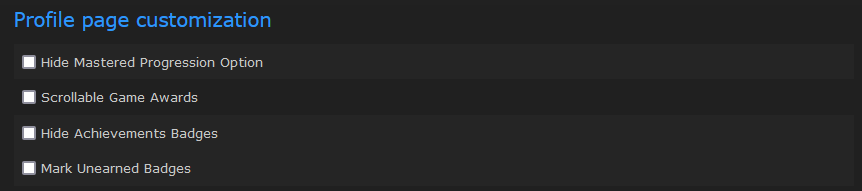
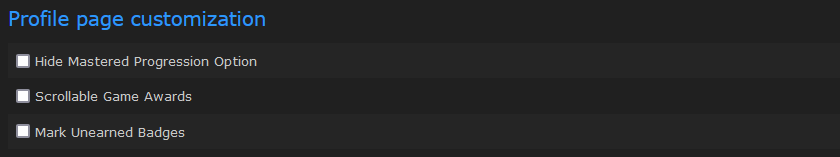
RA_CustomizeProfile: drop the HideAchievementsBadges feature

diff --git a/RA_CustomizeProfile.user.js b/RA_CustomizeProfile.user.js
@@ -1,7 +1,7 @@
 // ==UserScript==
 // @name         RA_CustomizeProfile
 // @namespace    RA
-// @version      1.1
+// @version      1.2
 // @description  Provides a set of options to customize the profile pages
 // @author       Mindhral
 // @homepage     https://github.com/Mindhral/RA_userscripts
@@ -55,10 +55,6 @@ const settingsHtml = `<div class="component">
     <tr><th colspan="2"><label><input id="scrollAwardsActive" type="checkbox"> Scrollable Game Awards</label></th></tr>
     <tr><td>Minimum number of games for showing the scroll bar</td><td><input id="scrollAwardsMinGames" type="number" style="width: 7em;"></td></tr>
     <tr><td>Maximum height of the section with the scroll bar</td><td><input id="scrollAwardsMaxHeight" type="number" min="10" style="width: 7em;"><span title="em: font-size of the element" style="cursor: help;"> em</span></td></tr>
-    <tr><th colspan="2"><label><input id="hideAchBadgesActive" type="checkbox"> Hide Achievements Badges</label></th></tr>
-    <tr><td>Maximum number of badges before hiding any</td><td><input id="hideAchBadgesMaxBadges" type="number" min="0" style="width: 7em;"></td></tr>
-    <tr><td>Number of badges always displayed</td><td><input id="hideAchBadgesShownBadges" type="number" min="30" style="width: 7em;"></td></tr>
-    <tr><td>Number of badges in the transparency gradient</td><td><input id="hideAchBadgesOpacityGradient" type="number" min="0" max="45" style="width: 7em;"></td></tr>
   </tbody></table>
   <table class="table-highlight"><tbody>
     <tr><th colspan="2"><label><input id="markUnearnedActive" type="checkbox"> Mark Unearned Badges</label></th></tr>
@@ -322,97 +318,8 @@ const ScrollAwards = (() => {
     return { profilePage, settingsPage };
 })();
 
-const HideAchievementsBadges = (() => {
-    const DefaultSettings = {
-        active: false,
-        maxBadgesCount: 45,
-        showBadgesCount: 30,
-        opacityGradientCount: 15
-    };
-
-    const Settings = loadSettings('hideAchievementsBadges', DefaultSettings);
-
-    function saveSettings() {
-        GM_setValue('hideAchievementsBadges', Settings);
-    }
-
-    function settingsPage() {
-        const activeCheckbox = document.getElementById('hideAchBadgesActive');
-        activeCheckbox.checked = Settings.active;
-
-        const maxBadgesInput = document.getElementById('hideAchBadgesMaxBadges');
-        maxBadgesInput.value = Settings.maxBadgesCount;
-
-        const shownBadgesInput = document.getElementById('hideAchBadgesShownBadges');
-        shownBadgesInput.value = Settings.showBadgesCount;
-        shownBadgesInput.min = Settings.opacityGradientCount;
-
-        const opacityGradientInput = document.getElementById('hideAchBadgesOpacityGradient');
-        opacityGradientInput.value = Settings.opacityGradientCount;
-        opacityGradientInput.max = Settings.showBadgesCount;
-
-        activeCheckbox.addEventListener('change', () => {
-            Settings.active = activeCheckbox.checked;
-            setRowVisibility(maxBadgesInput, Settings.active);
-            setRowVisibility(shownBadgesInput, Settings.active);
-            setRowVisibility(opacityGradientInput, Settings.active);
-            saveSettings();
-        });
-        activeCheckbox.dispatchEvent(new Event('change'));
-        maxBadgesInput.addEventListener('input', () => {
-            if (!maxBadgesInput.reportValidity()) return;
-            Settings.maxBadgesCount = parseInt(maxBadgesInput.value);
-            saveSettings();
-        });
-        shownBadgesInput.addEventListener('input', () => {
-            if (!shownBadgesInput.reportValidity()) return;
-            opacityGradientInput.max = shownBadgesInput.value;
-            Settings.showBadgesCount = parseInt(shownBadgesInput.value);
-            saveSettings();
-        });
-        opacityGradientInput.addEventListener('input', () => {
-            if (!opacityGradientInput.reportValidity()) return;
-            shownBadgesInput.min = opacityGradientInput.value;
-            Settings.opacityGradientCount = parseInt(opacityGradientInput.value);
-            saveSettings();
-        });
-    }
-
-    function profilePage() {
-        if (!Settings.active) return;
-        const badgeContainers = document.querySelectorAll('div.transition-all > hr + div');
-        badgeContainers.forEach(div => {
-            if (div.children.length <= Settings.maxBadgesCount) return;
-            for (let i = Settings.showBadgesCount; i < div.children.length; i++) {
-                div.children[i].classList.add('hidden')
-            }
-            for (let i = 1; i <= Settings.opacityGradientCount; i++) {
-                div.children[Settings.showBadgesCount - i].style.opacity = i / (Settings.opacityGradientCount + 1);
-            }
-            const showButton = document.createElement('button');
-            showButton.className='btn'
-            showButton.style['margin-top']='0.5em'
-            showButton.style['margin-left']='0.8em'
-            showButton.innerHTML='Show all'
-            div.append(showButton)
-            showButton.addEventListener('click', () => {
-                showButton.remove()
-                for (let i = Settings.showBadgesCount; i < div.children.length; i++) {
-                    div.children[i].classList.remove('hidden')
-                }
-                for (let i = 1; i <= Settings.opacityGradientCount; i++) {
-                    div.children[Settings.showBadgesCount - i].style.opacity = null;
-                }
-            });
-        });
-    }
-
-    return { profilePage, settingsPage };
-})();
-
 function profilePage() {
     ScrollAwards.profilePage();
-    HideAchievementsBadges.profilePage();
     HideMasteredProgress.profilePage();
     MarkUnearnedAwards.profilePage();
 }
@@ -426,7 +333,6 @@ function settingsPage() {
     mainDiv.outerHTML = settingsHtml;
 
     ScrollAwards.settingsPage();
-    HideAchievementsBadges.settingsPage();
     HideMasteredProgress.settingsPage();
     MarkUnearnedAwards.settingsPage();
 }

diff --git a/README.md b/README.md
@@ -12,11 +12,11 @@ Each script is made for the version of the site which is online at the time of t
 
 ## RA_CustomizeProfile
 
-Allows for a few customizations on *Profile* page, all of which can be deactivated on *Settings* page.
+Allows for some customization on *Profile* page, all of which can be deactivated on *Settings* page.
 
 ![Customize profile settings](/assets/CustomizeProfile_settings.png)
 
-The first 3 features correspond to former scripts *HideMasteredSets*, *ScrollProfileAwards* and *HideProfileAchievementsBadges*. These can be removed before this one is installed.
+The first 2 features correspond to former scripts *HideMasteredSets* and *ScrollProfileAwards*. These can be removed before this one is installed.
 
 ### Hide Mastered Progression Option
 
@@ -36,20 +36,6 @@ Events and site awards are not affected.
 The number of badges and the height which trigger the scroll bar apparition can be changed in a dedicated section on *Settings* page[^1].
 
 ![scroll bar settings](/assets/ScrollProfileAwards_settings.png)
-
-### Hide Achievements Badges
-
-> [!NOTE]
-> This feature is deactivated by default since the 5.2 update of RA _Web includes a very similar feature.
-
-On profile page, in *Last [n] games played* section, if a game has more than 45 badges (3 lines in wide layout), this scripts only shows the first 30 badges (2 lines) and adds a button to show the others.
-A transparency gradient is set on the last 15 badges (last line).
-
-![some badges hidden and button displayed](/assets/HideProfileAchievementsBadges_button.png) ![all badges displayed](/assets/HideProfileAchievementsBadges_clicked.png)
-
-All 3 numbers of badges can be adjusted in a dedicated section on *Settings* page[^1].
-
-![hide achievements badges settings](/assets/HideProfileAchievementsBadges_settings.png)
 
 ### Mark Unearned Badges
 
@@ -246,6 +232,9 @@ The date should be formatted according to the browser's locale.
 
 ## Discontinued
 
-- RA_progress2JSON
+- RA_HideMasteredSets: now included with RA_CustomizeProfile
+- RA_ScrollProfileAwards: now included with RA_CustomizeProfile
+- RA_HideProfileAchievementsBadges: the new layout of these badges already has the feature
+- RA_progress2JSON: not useful anymore with the API being back
 
 [^1]: Unless synchronization of scripts storage is added to Tampermonkey, these parameters are local.
